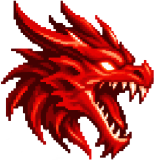
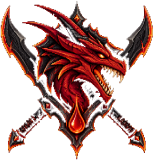
One Class 2 per line + Reclass (300 diamonds) to choose another (the old one is given up when the new one unlocks); secret classes shown only as a locked, unclickable emblem in the class select and the Class tab; Wyrmblood Reaver splash + emblem from the owner's art. Tests follow the unreleased-secr

diff --git a/src/ui/panels.js b/src/ui/panels.js
@@ -260,6 +260,8 @@ export class Panels {
     const lines = STARTING_CLASSES;
     if (!lines.includes(this.csLine)) this.csLine = lines[0];
     const base = this.csLine, kids = Object.values(CLASS_TREE).filter((n) => n.parent === base && !n.hidden).map((n) => n.id);
+    // SECRET classes (owner): shown as a locked emblem only — no name, no preview, not clickable
+    const secrets = Object.values(CLASS_TREE).filter((n) => n.parent === base && n.tier === 4).map((n) => n.id);
     if (this.csSel !== base && !kids.includes(this.csSel)) this.csSel = base;
     const sel = this.csSel, c = CLASSES[sel], node = CLASS_TREE[sel] || {}, isBase = sel === base;
     const color = (id) => (CLASSES[id] && CLASSES[id].theme && CLASSES[id].theme.color) || '#b070ff';
@@ -270,12 +272,15 @@ export class Panels {
     const row = (id, kind) => `<button class="cs-node ${kind}${id === sel ? ' sel' : ''}" data-cs-sel="${id}" style="--cc:${color(id)}">
         <span class="cs-emb"><img src="${emblem(id)}" alt="">${kind === 'mastery' ? '<i class="cs-lock">🔒</i>' : ''}</span>
         <span class="cs-txt"><small>${kind === 'base' ? tl('BASE CLASS') : tl('CLASS 2')}</small><b>${esc(CLASSES[id] ? CLASSES[id].name : CLASS_TREE[id].name)}</b></span></button>`;
+    const secretRow = (id) => `<div class="cs-node mastery secret" style="--cc:${color(id)};cursor:default;opacity:.75" title="${esc(tl('SECRET CLASS'))}">
+        <span class="cs-emb"><img src="${emblem(id)}" alt="" style="filter:brightness(.55)"><i class="cs-lock">🔒</i></span>
+        <span class="cs-txt"><small>${tl('SECRET CLASS')}</small><b>???</b></span></div>`;
     const el = this.show('title', `
       <div class="cs-bg" style="--cc:${color(sel)}"></div>
       <img class="cs-splash" src="assets/ui/class/${sel}_splash.png" alt="" style="--cc:${color(sel)}">
       <div class="cs-wrap">
         <div class="cs-lines">${lines.map((id) => `<button data-cs-line="${id}" class="${id === base ? 'on' : ''}" title="${esc(CLASSES[id].name)}" style="--cc:${color(id)}"><img src="${emblem(id)}" alt=""><span>${esc(CLASSES[id].name)}</span></button>`).join('')}</div>
-        <div class="cs-tree">${row(base, 'base')}<div class="cs-kids">${kids.map((id) => row(id, 'mastery')).join('')}</div></div>
+        <div class="cs-tree">${row(base, 'base')}<div class="cs-kids">${kids.map((id) => row(id, 'mastery')).join('')}${secrets.map((id) => secretRow(id)).join('')}</div></div>
         <div class="cs-info" style="--cc:${color(sel)}">
           <div class="cs-role">${esc(tx(c.role || ''))}</div>
           ${c.identity ? `<div class="cs-quote">“${esc(tx(c.identity))}”</div>` : ''}
@@ -333,7 +338,7 @@ export class Panels {
     if (a.startsWith('trial:')) {
       this.close();
       const r = g.progression.startTrial(a.slice(6));
-      if (!r.ok) g.ui.toast(r.reason === 'busy' ? tl('Finish your current trial first') : tl('Requirements not met'), 1.2);
+      if (!r.ok) g.ui.toast(r.reason === 'busy' ? tl('Finish your current trial first') : r.reason === 'reclass' ? tl('You already have a Class 2 — buy a Reclass in the Class tab first') : tl('Requirements not met'), 1.2);
       else { const n = this.dialogueNpc; g.progression.onChapterEvent('talk', (c) => c.npc === n); }
       return;
     }
@@ -480,7 +485,12 @@ export class Panels {
       // CLASS UI (generic): lineage tree + codex of the selected class + path card (requirements / trial)
       const p = g.player, prog = g.progression, rec = prog.records[p.cls.id] || {};
       const tree = prog.lineage();
-      if (!this.classSel || !tree.some((t) => t.node.id === this.classSel)) this.classSel = p.cls.id;
+      // SECRET classes (owner): always listed, but only as a locked emblem until they are yours or their quest has begun
+      const rootId = (tree.find((t) => t.depth === 0) || { node: { id: p.cls.id } }).node.id;
+      const secretOpen = (id) => prog.owns(id) || Object.values(prog.trials).some((t) => t.node === id && t.state === 'active');
+      for (const n of Object.values(CLASS_TREE)) if (n.tier === 4 && n.parent === rootId && !tree.some((t) => t.node.id === n.id)) tree.push({ node: n, depth: 1, state: 'future' });
+      for (const t of tree) if (t.node.tier === 4 && !secretOpen(t.node.id)) t.secret = true;
+      if (!this.classSel || !tree.some((t) => t.node.id === this.classSel && !t.secret)) this.classSel = p.cls.id;
       const selId = this.classSel, selNode = CLASS_TREE[selId], selCls = CLASSES[selId];
       const bar = (have, need) => need ? `<span class="req-bar"><i style="width:${Math.min(100, (have / need) * 100)}%"></i></span><span class="muted small">${Math.floor(have)}/${need}</span>` : '';
       const reqRow = (r) => `<div class="req ${r.met ? 'ok' : ''}">${r.met ? '✓' : '○'} ${esc(tx(r.label))} ${r.need ? bar(r.have, r.need) : ''}</div>`;
@@ -489,6 +499,7 @@ export class Panels {
         if (!t) return '';
         if (x.unlocked || t.state === 'passed') return `<div class="trial passed">✦ ${esc(tx(t.def.title))} — ${tl('PASSED')}</div>`;
         if (t.state === 'active') return `<div class="trial active"><b>${esc(tx(t.def.title))}</b>${t.chapters.length > 1 ? t.chapters.map((c, i) => `<div class="small ${c.done ? 'muted' : ''}">${c.done ? '✓' : c.current ? '▸' : '•'} ${tl('Chapter')} ${i + 1}: ${esc(tx(c.text || ''))}</div>${c.current && c.where ? `<div class="muted small">↳ ${esc(tx(c.where))}</div>` : ''}`).join('') : ''}${t.objectives.map((o) => reqRow({ met: o.have >= o.count, label: tx(CLASS_COUNTERS[o.counter].label), have: Math.max(0, o.have), need: o.count }) + (o.have < o.count && CLASS_COUNTERS[o.counter].hint ? `<div class="muted small">↳ ${esc(tx(CLASS_COUNTERS[o.counter].hint))}</div>` : '')).join('')}<button data-abandon="${t.id}">${tl('Abandon trial')}</button></div>`;
+        if (x.reclass) return `<div class="trial"><b>${esc(tx(t.def.title))}</b><div class="muted small">${tl('You already have a Class 2 of this line. A Reclass lets you choose another one — the current one is given up when the new one unlocks.')}</div><button data-reclass="1">${tl('Reclass · 💎 {n}', { n: PREMIUM.reclass })}</button></div>`;
         return `<div class="trial"><b>${esc(tx(t.def.title))}</b>${t.def.objectives.map((o) => `<div class="muted small">• ${tx(CLASS_COUNTERS[o.counter].label)} ×${o.count}</div>`).join('')}<button data-trial="${x.node.id}" ${x.ready ? '' : 'disabled'}>${x.ready ? tl('Begin trial') : tl('Requirements not met')}</button></div>`;
       };
 
@@ -508,6 +519,7 @@ export class Panels {
       const root = tree.find((t) => t.depth === 0) || tree[0], kids = tree.filter((t) => t.depth > 0);
       const node = (t, kind) => {
         const id = t.node.id, pr = progressOf(id, t.state), dim = t.state === 'locked' || t.state === 'future';
+        if (t.secret) return `<div class="ct-node mastery dim secret" style="--cc:${colorOf(id)};cursor:default" title="${esc(tl('SECRET CLASS'))}"><img class="ct-emb" src="assets/ui/class/${id}_emblem.png" alt="" style="filter:brightness(.55)"><span class="ct-txt"><small>${tl('SECRET CLASS')}</small><b>???</b> ${badge('locked')}</span></div>`;
         return `<button class="ct-node ${kind}${id === selId ? ' sel' : ''}${dim ? ' dim' : ''}" data-node="${id}" style="--cc:${colorOf(id)};${t.depth > 1 ? `margin-left:${(t.depth - 1) * 26}px` : ''}">
           <img class="ct-emb" src="assets/ui/class/${id}_emblem.png" alt="">
           <span class="ct-txt"><small>${kind === 'base' ? tl('BASE CLASS') : tl('CLASS {n}', { n: t.node.tier })}</small><b>${esc(t.node.name)}</b> ${badge(t.state)}
@@ -585,7 +597,7 @@ export class Panels {
       this.inventory();
     });
     el.addEventListener('click', (e) => {
-      const t = e.target.closest('[data-wear],[data-tab],[data-cat],[data-preset-load],[data-preset-save],[data-evo-revert],[data-skill-reset],[data-filter],[data-tree-sel],[data-item],[data-use],[data-equip],[data-equip-to],[data-unequip],[data-pick],[data-slot],[data-upgrade],[data-evo-open],[data-evolve],[data-trial],[data-abandon],[data-change],[data-node],.x');
+      const t = e.target.closest('[data-wear],[data-tab],[data-cat],[data-preset-load],[data-preset-save],[data-evo-revert],[data-skill-reset],[data-filter],[data-tree-sel],[data-item],[data-use],[data-equip],[data-equip-to],[data-unequip],[data-pick],[data-slot],[data-upgrade],[data-evo-open],[data-evolve],[data-trial],[data-reclass],[data-abandon],[data-change],[data-node],.x');
       if (!t) return;
       if (t.classList.contains('x')) return this.close();
       if (t.dataset.wear !== undefined) { const [slot, id] = t.dataset.wear.split(':'); if (g.player.wearCosmetic(slot, id || null)) g.audio.sfx('equip'); this.inventory(); }
@@ -621,8 +633,9 @@ export class Panels {
       }
       else if (t.dataset.upgrade) { const r = g.player.upgradeSkill(t.dataset.upgrade); g.audio.sfx(r.ok ? 'levelup' : 'deny'); this.inventory(); }
       else if (t.dataset.slot) { g.player.setSkillSlot(+t.dataset.slot, t.dataset.skill); this.inventory(); }
-      else if (t.dataset.trial) { const r = g.progression.startTrial(t.dataset.trial); if (!r.ok) g.ui.toast(r.reason === 'busy' ? tl('Finish your current trial first') : tl('Requirements not met'), 1.2); this.inventory(); }
+      else if (t.dataset.trial) { const r = g.progression.startTrial(t.dataset.trial); if (!r.ok) g.ui.toast(r.reason === 'busy' ? tl('Finish your current trial first') : r.reason === 'reclass' ? tl('You already have a Class 2 — buy a Reclass in the Class tab first') : tl('Requirements not met'), 1.2); this.inventory(); }
       else if (t.dataset.abandon) { g.progression.abandonTrial(t.dataset.abandon); this.inventory(); }
+      else if (t.dataset.reclass) { const r = g.progression.reclass(); g.ui.toast(r.ok ? tl('Reclass ready: choose your new Class 2') : r.reason === 'diamonds' ? tl('Not enough diamonds') : tl('Not possible'), 1.4); this.inventory(); }
       else if (t.dataset.node) { this.classSel = t.dataset.node; this.inventory(); g.audio.sfx('ui'); }
       else if (t.dataset.change) { const r = g.changeClass(t.dataset.change); if (r.ok) this.close(); else g.ui.toast(tl('Cannot change class: {why}', { why: r.reason }), 1.4); }
     });

diff --git a/src/progression/progression.js b/src/progression/progression.js
@@ -1,5 +1,6 @@
 import { CLASS_TREE, CLASS_COUNTERS, TRIALS, trialChapters } from '../data/classTree.js';
 import { evaluate, evaluateAll, matches } from './requirements.js';
+import { PREMIUM } from '../data/premium.js';
 
 // CLASS PROGRESSION — class records, class-tree requirements and class trials for the current character.
 // Everything comes from data/classTree.js; this file never names a class.
@@ -19,6 +20,7 @@ export class Progression {
     this.unlocked = [];
     this.startingClass = null; // chosen at character creation
     this.history = [];        // class changes: { from, to, level }
+    this.reclassReady = false; // a Reclass was bought: the next Class 2 may replace the current one (see needsReclass)
     this.wire();
   }
 
@@ -81,7 +83,7 @@ export class Progression {
         const reqs = evaluateAll(n.requirements, ctx);
         const trial = n.trial ? { id: n.trial, def: TRIALS[n.trial], ...this.trialView(n.trial) } : null;
         const ready = reqs.every((r) => r.met);
-        return { node: n, reqs, ready, trial, unlocked: this.unlocked.includes(n.id) };
+        return { node: n, reqs, ready, trial, unlocked: this.unlocked.includes(n.id), reclass: this.needsReclass(n.id) };
       });
   }
 
@@ -147,6 +149,7 @@ export class Progression {
     const g = this.game, path = this.paths().find((x) => x.node.id === nodeId);
     if (!path || !path.trial) return { ok: false, reason: 'unknown' };
     if (!path.ready) return { ok: false, reason: 'requirements' };
+    if (this.needsReclass(nodeId)) return { ok: false, reason: 'reclass' }; // another Class 2 of this line is yours: Reclass first
     if (this.trials[path.trial.id]) return { ok: false, reason: this.trials[path.trial.id].state };
     if (Object.values(this.trials).some((t) => t.state === 'active')) return { ok: false, reason: 'busy' }; // one trial at a time
     this.trials[path.trial.id] = { state: 'active', node: nodeId, base: {}, step: 0 };
@@ -175,8 +178,33 @@ export class Progression {
     this.unlock(t.node);
     g.save.dirty = true;
   }
+  // ---------------- CLASS 2 CHOICE (owner 2026-10-13): ONE Class 2 per line. Taking another one needs a RECLASS first
+  // (diamonds, PREMIUM.reclass); when the new Class 2 unlocks, the old one of that line is given up (no longer owned, its
+  // trial forgotten — choosing it again = another Reclass + its trial). Older saves that own several keep them.
+  lineOf(id) { let c = id; while (CLASS_TREE[c] && CLASS_TREE[c].parent) c = CLASS_TREE[c].parent; return c; }
+  class2Of(line, except = null) { return this.unlocked.find((id) => id !== except && CLASS_TREE[id] && CLASS_TREE[id].tier === 2 && this.lineOf(id) === line) || null; }
+  needsReclass(nodeId) {
+    const n = CLASS_TREE[nodeId];
+    return !!(n && n.tier === 2 && !this.unlocked.includes(nodeId) && !this.reclassReady && this.class2Of(this.lineOf(nodeId), nodeId));
+  }
+  reclass() {
+    if (this.reclassReady) return { ok: false, reason: 'ready' };
+    if (!Object.values(CLASS_TREE).some((n) => n.tier === 2 && this.unlocked.includes(n.id))) return { ok: false, reason: 'none' };
+    if (!this.game.player.spendDiamonds(PREMIUM.reclass, 'reclass')) return { ok: false, reason: 'diamonds' };
+    this.reclassReady = true;
+    this.game.events.emit('reclassBought', { player: this.game.player });
+    this.game.save.dirty = true;
+    return { ok: true };
+  }
   unlock(nodeId) {
     if (this.unlocked.includes(nodeId)) return;
+    const n = CLASS_TREE[nodeId], old = n && n.tier === 2 ? this.class2Of(this.lineOf(nodeId), nodeId) : null;
+    if (old) { // the Reclass is spent: the previous Class 2 of this line is given up
+      this.unlocked = this.unlocked.filter((id) => id !== old);
+      for (const [tid, t] of Object.entries(this.trials)) if (t.node === old) delete this.trials[tid];
+      this.reclassReady = false;
+      this.game.events.emit('classGivenUp', { classId: old, for: nodeId });
+    }
     this.unlocked.push(nodeId);
     this.game.events.emit('classUnlocked', { classId: nodeId, node: CLASS_TREE[nodeId] });
     this.game.save.dirty = true;
@@ -204,7 +232,7 @@ export class Progression {
   // classes this character may change into: its starting class + everything unlocked
   owns(classId) { return classId === this.startingClass || this.unlocked.includes(classId); }
 
-  serialize() { return { records: this.records, trials: this.trials, unlocked: this.unlocked, startingClass: this.startingClass, history: this.history }; }
+  serialize() { return { records: this.records, trials: this.trials, unlocked: this.unlocked, startingClass: this.startingClass, history: this.history, reclassReady: !!this.reclassReady }; }
   load(d) {
     if (!d) return;
     this.records = JSON.parse(JSON.stringify(d.records || {}));
@@ -212,6 +240,7 @@ export class Progression {
     this.unlocked = (d.unlocked || []).filter((id) => CLASS_TREE[id]);
     this.startingClass = CLASS_TREE[d.startingClass] ? d.startingClass : null;
     this.history = Array.isArray(d.history) ? d.history.slice(-50) : [];
+    this.reclassReady = !!d.reclassReady;
   }
 }
 export { evaluate };

diff --git a/tools/build-class-art.js b/tools/build-class-art.js
@@ -22,9 +22,7 @@ const SPLASH = {
   umbral_sword: 'UB', nightfall_reaper: 'RP', duskrunner: 'DR', blade_of_echoes: 'BE',
   astral_weaver: 'AW', stormcaller: 'SM', void_scribe: 'VS', lumen_oracle: 'LO',
   aegis_guardian: 'AG', warden_of_dawn: 'WD', bulwark_sentinel: 'BS', oathbreaker: 'OK',
-  // secret class: no splash painting yet -> WR.png is the front ultimate frame (dragon behind the hero) on black, cut from
-  // desgin/class cr/UB/WR/UT.png. Replace it with real splash art when the owner makes one.
-  wyrmblood_reaver: 'WR',
+  wyrmblood_reaver: 'WR', // secret class (owner's splash 2026-10-13)
 };
 // class id -> emblem file (identified by eye from the owner's sheet, 2026-10-02)
 const EMBLEMS = {
@@ -40,13 +38,13 @@ const EMBLEMS = {
   bulwark_sentinel: 'AG/image-6f059803-0be6-4d33-b646-cb2f79ff3759-0.png',
   warden_of_dawn: 'AG/image-b4bd3a37-eebd-4dc0-af1f-75699234d299-0.png',
   oathbreaker: 'AG/image-c462c400-5f50-44df-83c1-0d9142ef7bc0-0.png',
-  wyrmblood_reaver: '../../ICON SKILL/UB/WR/UT.png', // secret class: its ultimate icon (dragon head) until an emblem exists
+  wyrmblood_reaver: 'UB/WR.png',
 };
 // splash cut: dark costumes (black shins / cloaks reach values 4-12) need a LOW threshold; gaps must be almost all pure black
 const SPLASH_CUT = { bg: 3, soft: 3, softLum: 30, hole: 0, erode: 4, gap: 0.8, gapMin: 400 };
 // per-class overrides: bright armour + AI grey noise around the head (Aegis) -> a higher threshold is safe there
 // cut: false = the source already has a transparent background (no black cut; small sources are scaled up pixel-sharp)
-const SPLASH_CUT_BY = { wyrmblood_reaver: { cut: false }, aegis_guardian: { bg: 12, erode: 5, gap: 0.5 }, warden_of_dawn: { bg: 10, erode: 5, gap: 0.6 }, lumen_oracle: { bg: 10, erode: 5, gap: 0.6 }, oathbreaker: { bg: 6, gap: 0.4 } };
+const SPLASH_CUT_BY = { aegis_guardian: { bg: 12, erode: 5, gap: 0.5 }, warden_of_dawn: { bg: 10, erode: 5, gap: 0.6 }, lumen_oracle: { bg: 10, erode: 5, gap: 0.6 }, oathbreaker: { bg: 6, gap: 0.4 } };
 const EMBLEM_CUT = { bg: 18, soft: 5, softLum: 70, hole: 0 };
 
 // drop small DARK islands left floating in the background (AI noise specks); bright sparks / magic motes are art: kept
@@ -80,7 +78,7 @@ function main() {
   for (const [id, rel] of Object.entries(EMBLEMS)) {
     const f = path.join(EMBLEM_DIR, rel);
     if (!fs.existsSync(f)) { console.log('missing emblem', id); continue; }
-    const im = shrink(crop(id === 'wyrmblood_reaver' ? png.read(f) : cutBlack(png.read(f), EMBLEM_CUT), 4), EMBLEM); // secret class: its icon already has alpha
+    const im = shrink(crop(cutBlack(png.read(f), EMBLEM_CUT), 4), EMBLEM);
     png.write(path.join(OUT, id + '_emblem.png'), im);
     (meta[id] ||= {}).emblem = `assets/ui/class/${id}_emblem.png`;
   }

diff --git a/tools/combatTest.js b/tools/combatTest.js
@@ -523,7 +523,7 @@ export function wyrmChecks(g) {
   g.newGame('umbral_sword'); releaseInput(g);
   g.progression.unlock('nightfall_reaper'); g.combat.lastCombatTime = -99; g.changeClass('nightfall_reaper');
   const hiddenBefore = !g.progression.isRevealed || !g.progression.isRevealed('wyrmblood_reaver');
-  g.player.setLevel(50); g.inventory.add('heart_of_varkharon', 1); g.world.setFlag('dragon_slain');
+  g.player.setLevel(50); g.inventory.add('heart_of_varkharon', 1); g.world.setFlag('dragon_slain'); g.world.setFlag('secret_classes_live');
   g.progression.unlock('wyrmblood_reaver');
   const r = g.changeClass('wyrmblood_reaver'), np = g.player;
   ok('Class change Nightfall Reaper -> Wyrmblood Reaver', r.ok && np.cls.id === 'wyrmblood_reaver' && np.sprites.preset === 'wr' && np.primaryResource === WF, `${np.cls.id} ${np.sprites.preset} hiddenBefore=${hiddenBefore}`);
@@ -1261,7 +1261,7 @@ export function classChangeChecks(g) {
   const base = CLASSES.umbral_sword;
   CLASSES.mock_class2 = { ...base, id: 'mock_class2', stableId: 'class_mock_class2', name: 'Mock Class 2' };
   CLASS_TREE.mock_class2 = { id: 'mock_class2', name: 'Mock Class 2', tier: 2, parent: 'astral_weaver', playable: true, requirements: [], trial: null };
-  CLASS_TREE.mock_unbuilt = { id: 'mock_unbuilt', name: 'Mock Unbuilt', tier: 2, parent: 'astral_weaver', playable: false, requirements: [], trial: null }; // a node whose class data does not exist yet
+  CLASS_TREE.mock_unbuilt = { id: 'mock_unbuilt', name: 'Mock Unbuilt', tier: 3, parent: 'astral_weaver', playable: false, requirements: [], trial: null }; // a node whose class data does not exist yet (tier 3: one Class 2 per line would give up mock_class2)
   try {
     let { p, d } = atDummy(g, 'astral_weaver');
     p.level = 14; p.exp = 33; p.gold = 777; p.recomputeStats(); p.hp = Math.round(p.maxHp / 2);

diff --git a/src/i18n/th/classSecret.js b/src/i18n/th/classSecret.js
@@ -51,4 +51,11 @@ export const TH_CLASS_SECRET = {
   "Drink the King's blood and it will ask a price: your own. Learn to fight bleeding — and then face what you become.": 'ดื่มเลือดของราชา แล้วมันจะเรียกค่าตอบแทน: เลือดของเจ้าเอง เรียนรู้ที่จะสู้ทั้งที่เลือดไหล — แล้วเผชิญหน้ากับสิ่งที่เจ้ากลายเป็น',
   "The Cinder King's blood runs in you now. Try not to let it run out.": 'เลือดของราชาเถ้าถ่านไหลอยู่ในตัวเจ้าแล้ว พยายามอย่าให้มันไหลหมดล่ะ',
   'SHADOW OF THE DRAGON BLOOD': 'SHADOW OF THE DRAGON BLOOD',
+  // ---- secret class display + reclass (UI)
+  'SECRET CLASS': 'คลาสลับ',
+  'You already have a Class 2 — buy a Reclass in the Class tab first': 'คุณมี Class 2 แล้ว — ซื้อ Reclass ในแท็บคลาสก่อน',
+  'You already have a Class 2 of this line. A Reclass lets you choose another one — the current one is given up when the new one unlocks.': 'คุณมี Class 2 ของสายนี้แล้ว ใช้ Reclass เพื่อเลือกคลาสใหม่ได้ — คลาสเดิมจะหายไปเมื่อคลาสใหม่ปลดล็อก',
+  'Reclass · 💎 {n}': 'Reclass · 💎 {n}',
+  'Reclass ready: choose your new Class 2': 'Reclass พร้อมแล้ว: เลือก Class 2 ใหม่ของคุณ',
+  'Not possible': 'ทำไม่ได้',
 };

diff --git a/tools/testkit.js b/tools/testkit.js
@@ -2563,7 +2563,7 @@ export function secretQuestCheck(g, { node = 'wyrmblood_reaver', from = 'nightfa
   const p = () => g.player;
   p().setLevel(level); p().hp = p().maxHp;
   ok('Hidden before the dragon falls', !pr.paths().some((x) => x.node.id === node));
-  g.world.setFlag('dragon_slain');
+  g.world.setFlag('dragon_slain'); g.world.setFlag('secret_classes_live'); // secret classes are not released yet (SECRET_CLASS_RULES.live)
   ok('Revealed after (flag dragon_slain)', pr.paths().some((x) => x.node.id === node));
   g.world.changeMap('cinder'); g.simulate(2);
   const npc = g.world.interactables.find((i) => i.id === 'npc_master_dragon');

diff --git a/src/data/premium.js b/src/data/premium.js
@@ -7,5 +7,7 @@ export const PREMIUM = {
     evolution: 50, // undo one skill evolution (Player.revertEvolution)
     skills: 100,   // reset every skill level of the current class, points back (Player.resetSkillLevels)
   },
+  // RECLASS (owner 2026-10-13): one Class 2 per line; choosing another one needs a Reclass first (progression.reclass)
+  reclass: 300,
   devGrant: 100,   // Dev Panel button (dev mode only)
 };

diff --git a/docs/ui/class_art_prompts.md b/docs/ui/class_art_prompts.md
@@ -153,3 +153,20 @@ Pixel art class emblem icon: a cracked shield split by a jagged violet blade wit
 - ทำ **Umbral Sword ก่อน** เลือกรูปที่ชอบที่สุด แล้วใช้เป็นภาพอ้างอิงสไตล์ให้ทุกคลาสที่เหลือ (Midjourney: `--sref <ลิงก์รูปนั้น>`; เครื่องมืออื่น: ใส่เป็น reference image)
 - class 2 ของแต่ละสายควรมีหน้าตาเป็น "คนเดิมที่อัปเกรด" (ผมดำ ชุดโทนเดียวกับ base) แบบในภาพที่ส่งมา
 - ถ้าตัวละครออกมาไม่เต็มตัว (เท้าขาด) ให้เพิ่ม `full body visible from head to boots`
+
+---
+
+## คลาสลับ (SECRET · เลือดมังกรไฟ)
+
+### 13. Wyrmblood Reaver — `wyrmblood_reaver` (Secret · สาย Umbral)
+วางไฟล์ splash ทับ `desgin/UI/ตัวละคร/WR.png` (ตอนนี้เป็นภาพชั่วคราวที่ตัดจากท่า Ult) · emblem วางที่ `desgin/UI/ICON CLASS/UB/WR.png`
+อัปโหลดภาพ `desgin/class cr/UB/WR/WALK.png` เป็น reference ด้วย เพื่อให้หน้าตา / ชุด / ดาบตรงกับตัวในเกม
+
+**Splash**
+```text
+Full-body pixel art character splash of a feral blood-fire swordsman with messy black hair and glowing orange-red eyes, long black leather coat with dark crimson dragon-scale shoulders and a tattered black-red half cape shaped like a torn dragon wing, glowing molten-red vein lines running along both arms and the neck, holding twin curved black swords with crimson edges and thin lines of molten lava flowing along the blades, low predatory stance with blades held low, a faint giant crimson dragon silhouette made of blood-fire rising behind him, dark fantasy anime style, crisp detailed pixels, strong crimson and molten-orange rim light, embers and small blood droplets floating around, isolated on a plain pure black background, no text, no frame, character fills 85% of the image height
+```
+**Emblem**
+```text
+Pixel art class emblem icon: a crimson dragon head in profile with an open fanged jaw, two curved black blades crossed behind it, a drop of glowing molten blood at the center, dark iron crest with glowing crimson and molten-orange edges, centered, isolated on plain pure black background, no text, crisp pixels, high resolution
+```

diff --git a/CLAUDE.md b/CLAUDE.md
@@ -1842,3 +1842,11 @@ Push to GitHub (`origin` = github.com/jepzaze6665-dev/EO-ver0.1, branch `main`) 
   WR walk centring (owner: "side walk: the body leads the legs"): build-player sheet option `centerFeet` = side-row frames moved
   sideways so the feet centroid sits on the pivot; the walk v2 side row drew head + feet ~3 px ahead of the pivot (= ahead of the
   shadow). Measured after: head -0.3 / feet -0.1 px.
+- CLASS 2 CHOICE + SECRET DISPLAY (owner 2026-10-13): ONE Class 2 per line (progression.js class2Of / needsReclass / reclass):
+  the first is free; another Class 2's trial asks for a RECLASS (PREMIUM.reclass 300 diamonds, ledger reason 'respec' what
+  'reclass'; progression.reclassReady, saved) — startTrial reason 'reclass'; when the new Class 2 unlocks the old one of that line is
+  given up (not owned, its trial forgotten; event 'classGivenUp'). Older saves owning several keep them. Class tab path card shows
+  "Reclass · 💎 300". SECRET classes (tier 4) are always listed in the class select and the Class tab as a LOCKED emblem only
+  ("SECRET CLASS ???", darkened, not clickable) until owned or their quest is active — the other session's SECRET_CLASS_RULES.live
+  false (reveal flag secret_classes_live) still keeps their paths closed; tests set that flag. Wyrmblood splash / emblem = owner's
+  art (desgin/UI/ตัวละคร/WR.png, desgin/UI/ICON CLASS/UB/WR.png, normal black cut).
